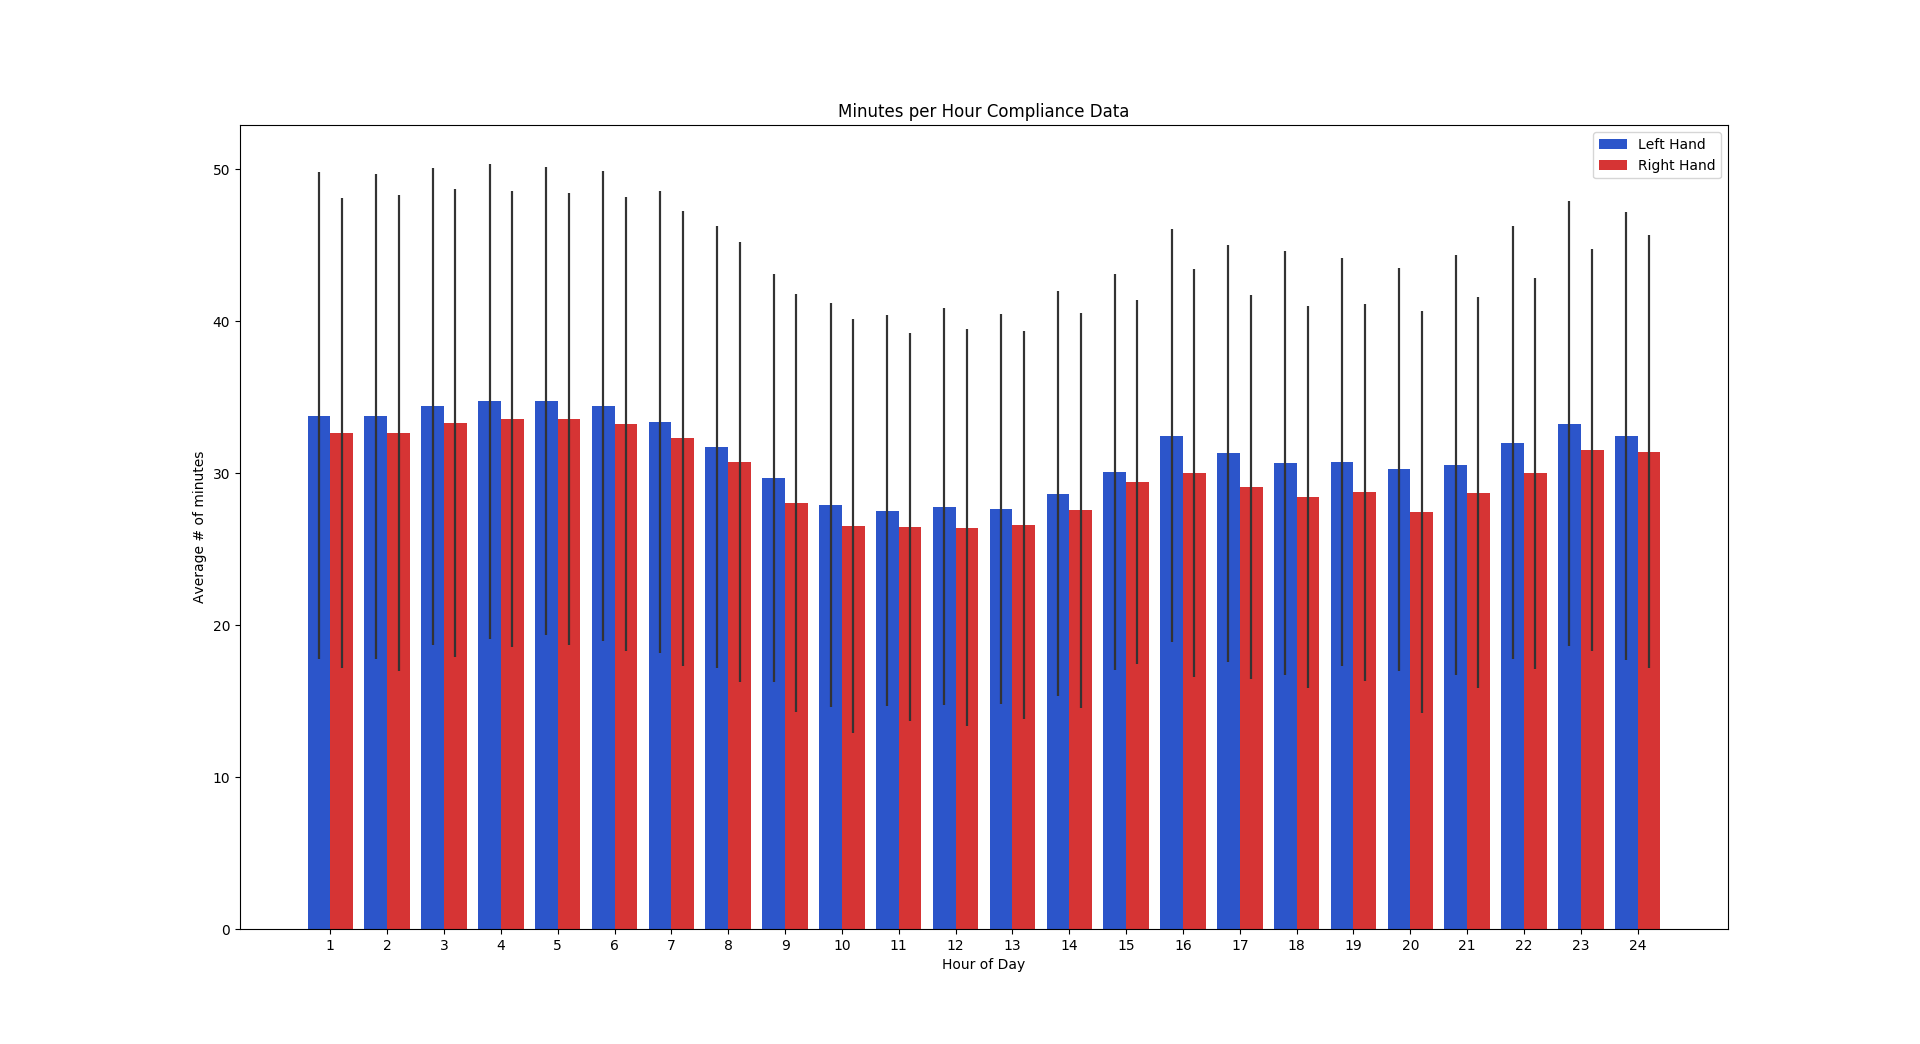
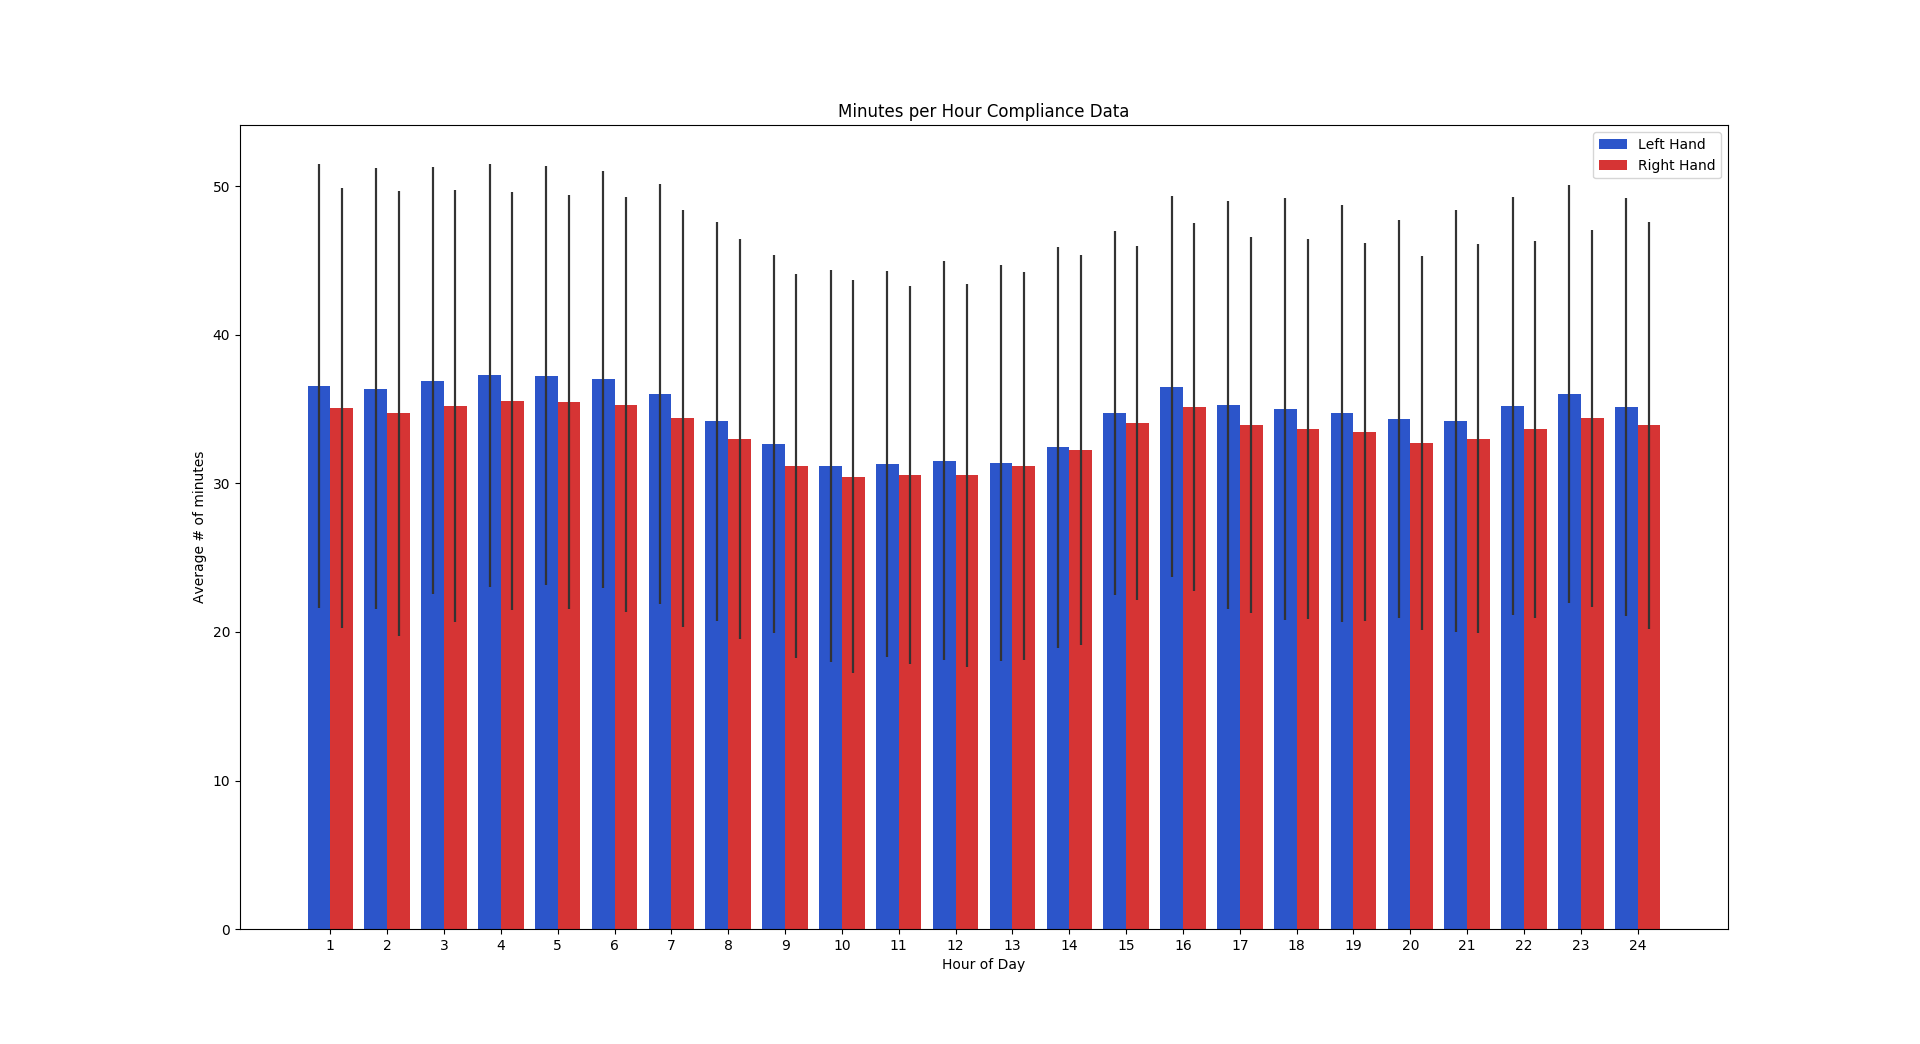
Updated charts with 56 day preprocessing

Changed region(s): [[0.1562, 0.3372, 0.875, 0.5211]]

diff --git a/E4-compliance.py b/E4-compliance.py
@@ -69,7 +69,7 @@ def percentage_of_one_hour(segment):    # segment must be temp hdf segment of ex
     temp_col = get_temp_col(segment)
     pared = 0
     for i in range(len(temp_col)):
-        if temp_col[i] >= 31:
+        if temp_col[i] >= 25:
             pared += 1
     return min(1.0, pared*.25/3600)
 
@@ -105,8 +105,6 @@ def chart_hours_per_day_average(participant_to_percentages_per_day, title, left)
     std_devs = []
     labels = []
     for day in days_to_percentages:
-        if day >= 56:
-            break
         hours_for_day = [x*24 for x in days_to_percentages[day]]
         avg_hours_per_day.append(sum(hours_for_day)/len(hours_for_day))
         std_devs.append(np.std(hours_for_day))
@@ -118,6 +116,7 @@ def chart_hours_per_day_average(participant_to_percentages_per_day, title, left)
     plt.title(title)
     plt.xlabel('Day in Study')
     plt.ylabel('Average # of Hours')
+    plt.xticks(np.arange(0, len(labels), 5))
     plt.show()
 
 
@@ -133,14 +132,10 @@ def chart_hours_per_day_averages_together(participant_to_percentages_per_day_lef
     std_devs_left = []
     std_devs_right = []
     for day in days_to_percentages_left:
-        if day >= 56:
-            break
         hours_for_day = [x*24 for x in days_to_percentages_left[day]]
         avg_hours_per_day_left.append(sum(hours_for_day)/len(hours_for_day))
         std_devs_left.append(np.std(hours_for_day))
     for day in days_to_percentages_right:
-        if day >= 56:
-            break
         hours_for_day = [x*24 for x in days_to_percentages_right[day]]
         avg_hours_per_day_right.append(sum(hours_for_day)/len(hours_for_day))
         std_devs_right.append(np.std(hours_for_day))
@@ -163,8 +158,8 @@ def chart_hours_per_day_averages_together(participant_to_percentages_per_day_lef
     labels = ['' for x in range(num_samples)]
 
     for i in range(len(labels)):
-        if (i + 1) % 5 == 0:
-            labels[i] = i + 1
+        if i%5 == 0:
+            labels[i] = i
 
     ax.set_xlabel('Day in Study')
     ax.set_ylabel('# hours')
@@ -298,7 +293,7 @@ def save_hours_per_day_chart_for_person(name, days, hours_per_day_left, hours_pe
         file.write(str(day) + spaces + "                   "+hours_left+"            " + hours_right + "\n")
     file.close()
 
-def split_into_days(hdf_temp_filepath, left, start=None):
+def split_into_days(hdf_temp_filepath, left, start=None, end=None):
 
     acc_first_row_left = pd.read_hdf(hdf_temp_filepath, 'TEMP_left')
     acc_first_row_left = acc_first_row_left.sort_index()
@@ -318,13 +313,19 @@ def split_into_days(hdf_temp_filepath, left, start=None):
     start_date = start_date.replace(hour=0, minute=0, second=0)
 
     # convert to datetime
-    end_date_left = np.max(acc_first_row_left.index.values)
-    end_date_right = np.max(acc_first_row_right.index.values)
-    end_date = end_date_left if left else end_date_right
-    # convert to datetime
-    end_date = dt.utcfromtimestamp(end_date.tolist() / 1e9)
-    end_date = end_date.replace(tzinfo=None)
+    if not end:
+        end_date_left = np.max(acc_first_row_left.index.values)
+        end_date_right = np.max(acc_first_row_right.index.values)
+        end_date = end_date_left if left else end_date_right
+        # convert to datetime
+        end_date = dt.utcfromtimestamp(end_date.tolist() / 1e9)
+        end_date = end_date.replace(tzinfo=None)
+    else:
+        end_date = end
+        end_date = end_date.replace(tzinfo=None)
+
     end_date = end_date.replace(hour=0, minute=0, second=0)
+
     rng = pd.date_range(start_date, end_date)
 
     hdf_in_days = []
@@ -383,7 +384,8 @@ def make_minutes_per_hour_chart_from_data(directory, left):
         participant = filename[:4]
         print("Starting " + participant)
         start_date = date_dic[participant]['Week 0']
-        days = split_into_days(directory+'/'+filename, left, start=start_date)
+        end_date = start_date + timedelta(days=56)
+        days = split_into_days(directory+'/'+filename, left, start=start_date, end=end_date)
 
         days_in_hours = []
         for day in days:
@@ -422,8 +424,9 @@ def make_minutes_per_hour_chart_both_hands(directory):
         participant = filename[:4]
         print("Starting " + participant)
         start_date = date_dic[participant]['Week 0']
-        days_left = split_into_days(directory + '/' + filename, True, start=start_date)
-        days_right = split_into_days(directory + '/' + filename, False, start=start_date)
+        end_date = start_date + timedelta(days=56)
+        days_left = split_into_days(directory + '/' + filename, True, start=start_date, end=end_date)
+        days_right = split_into_days(directory + '/' + filename, False, start=start_date, end=end_date)
 
         days_in_hours_left = []
         for day in days_left:
@@ -557,8 +560,9 @@ def make_average_hours_per_day_chart_both_hands(directory):
         participant = filename[:4]
         print("Starting " + participant)
         start_date = date_dic[participant]['Week 0']
-        days_left = split_into_days(directory+'/'+filename, True, start=start_date)
-        days_right = split_into_days(directory+'/'+filename, False, start=start_date)
+        end_date = start_date + timedelta(days=56)
+        days_left = split_into_days(directory+'/'+filename, True, start=start_date, end=end_date)
+        days_right = split_into_days(directory+'/'+filename, False, start=start_date, end=end_date)
 
         percentages_per_day_left = per_day_percentages(days_left)
         percentages_per_day_right = per_day_percentages(days_right)
@@ -578,7 +582,8 @@ def make_hours_per_day_chart_from_data(directory, left):
         participant = filename[:4]
         print("Starting " + participant)
         start_date = date_dic[participant]['Week 0']
-        days = split_into_days(directory+'/'+filename, left, start=start_date)
+        end_date = start_date + timedelta(days=56)
+        days = split_into_days(directory+'/'+filename, left, start=start_date, end=end_date)
 
         percentages_per_day = per_day_percentages(days)
         percentages_per_day_by_all_participants[filename] = percentages_per_day
@@ -597,7 +602,8 @@ def get_average_hours(directory, left):
     for filename in get_files(directory):
         participant = filename[:4]
         start_date = date_dic[participant]['Week 0']
-        days = split_into_days(directory+'/'+filename, left, start=start_date)
+        end_date = start_date + timedelta(days=56)
+        days = split_into_days(directory+'/'+filename, left, start=start_date, end=end_date)
 
         percentages_per_day = per_day_percentages(days)
         all_percentages.extend(percentages_per_day)
@@ -625,9 +631,7 @@ def get_hours_per_day_all_participants(directory):
 def save_chart_one_by_one(directory):
     date_dic = get_date_dic('HAMD_final_scores.csv')
     for filename in get_files(directory):
-    # filename = 'M001_temp.h5'
         print("Trying to create "+filename)
-        # try:
         participant = filename[:4]
         start_date = date_dic[participant]['Week 0']
         left_days = split_into_days(directory + '/' + filename, left=True, start=start_date)
@@ -639,8 +643,6 @@ def save_chart_one_by_one(directory):
             day_difference = assessments[assessment_day] - assessments['Week 0']
             day_difference = day_difference.days
             day_of_study_assessments[day_difference] = assessment_day
-        # except:
-        #     print('Error on ' + filename)
         left_percentages = per_day_percentages(left_days)
         right_percentages = per_day_percentages(right_days)
         save_chart_hours_per_day_per_person(participant, left_percentages, right_percentages, day_of_study_assessments, assessments)
@@ -750,26 +752,23 @@ def plot_individuals_to_days_uploaded():
     plt.show()
 
 
-# plot_individuals_to_days_uploaded()
-
-# make_average_hours_per_day_chart_both_hands(TEMP_DIRECTORY)
+# save_chart_one_by_one(TEMP_DIRECTORY)
 
 # make_minutes_per_hour_chart_both_hands(TEMP_DIRECTORY)
-
 # make_minutes_per_hour_chart_from_data(TEMP_DIRECTORY, left=True)
 # make_minutes_per_hour_chart_from_data(TEMP_DIRECTORY, left=False)
 
-# make_histogram_of_assessment_days()
-
-# save_chart_one_by_one(TEMP_DIRECTORY)
-
+# make_average_hours_per_day_chart_both_hands(TEMP_DIRECTORY)
 # make_hours_per_day_chart_from_data(TEMP_DIRECTORY, left=True)
-# make_hours_per_day_chart_from_data(TEMP_DIRECTORY, left=False)
+make_hours_per_day_chart_from_data(TEMP_DIRECTORY, left=False)
 
 # get_average_hours(TEMP_DIRECTORY, left=False)
 
 # write_average_percentages_file()
 
-# print(pd.read_hdf(NEW_FILES+'/M042_temp.h5', 'TEMP_left'))
-
+# -----------------------------------------------
 # participants_to_assessment_dates('HAMD_final_scores.csv')
+
+# make_histogram_of_assessment_days()
+
+# plot_individuals_to_days_uploaded()
